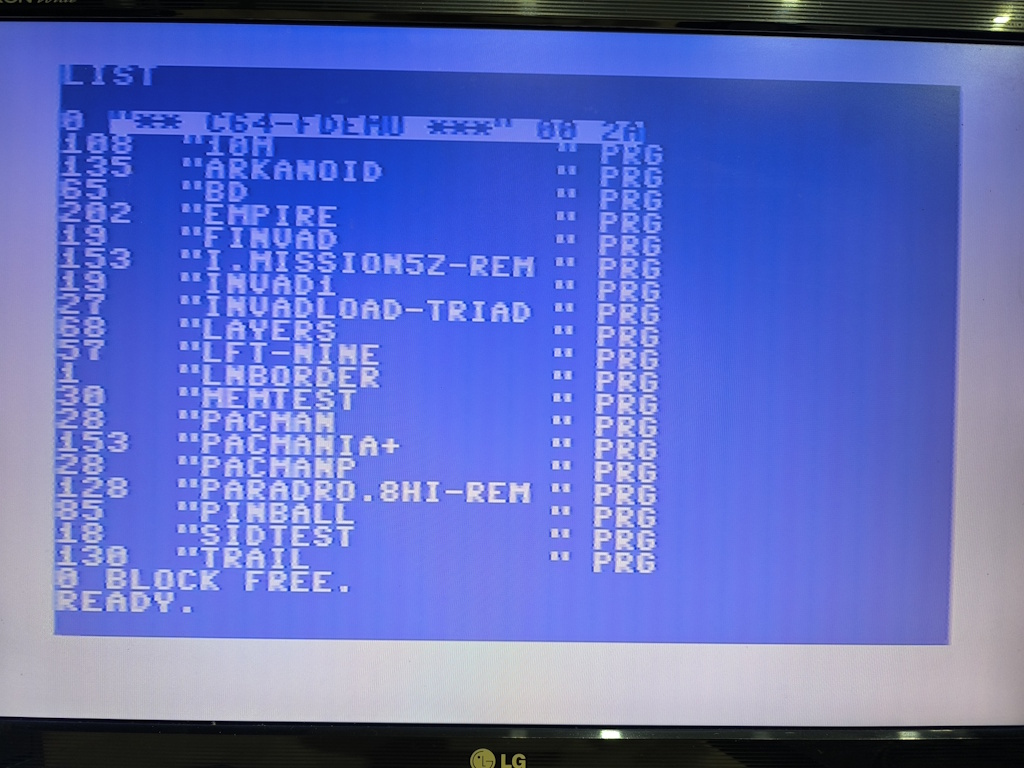
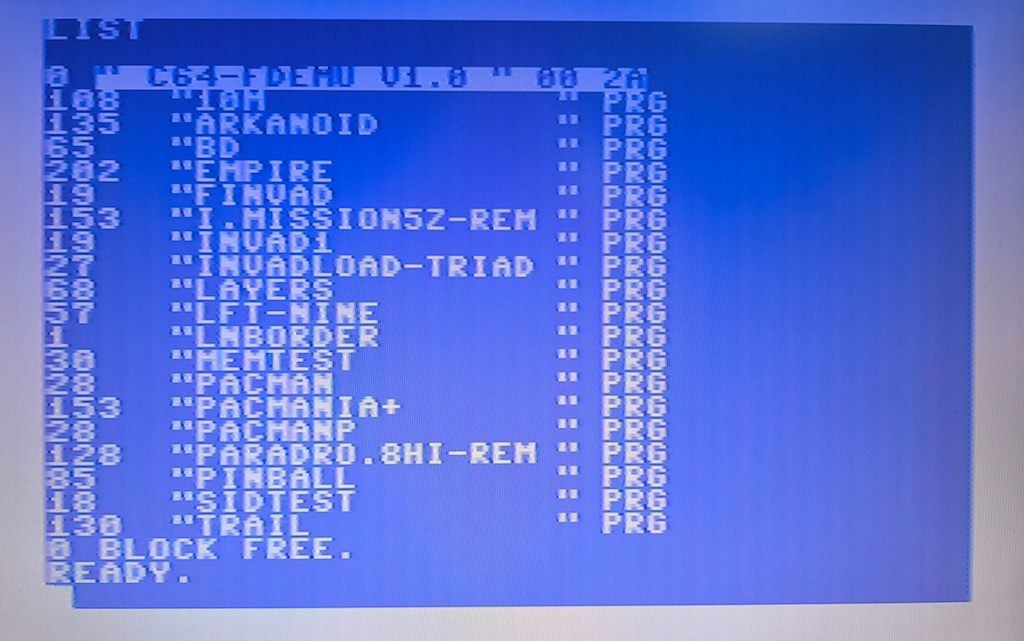
Changes related to V1.0 finalization
- Default device ID set to 8
- Renaming refactors in PowerShell scripts according to PS Verb-Noun naming convention violations
- Code optimizations in the server scripts.
- Versioning added

diff --git a/src/fileserver/c64iec_fs.py b/src/fileserver/c64iec_fs.py
@@ -6,8 +6,8 @@
 # Requirements:
 #   pip install pyserial
 # Usage:
-#   python c64iec_fs.py [--port COM5] [--baud 115200] [--basedir C:\]
-#   python c64iec_fs.py --port /dev/ttyUSB0 --baud 115200 --basedir /home/user/c64files
+#   python c64iec_fs.py [--port COM5] [--baud 115200] [--basedir C:\] --devid -1
+#   python c64iec_fs.py --port /dev/ttyUSB0 --baud 115200 --basedir /home/user/c64files --devid -1
 # -----------------------------------------------------------------------------
 # This program is free software; you can redistribute it and/or modify
 # it under the terms of the GNU General Public License as published by
@@ -38,8 +38,14 @@ except ImportError:
     print("ERROR: pyserial is not installed. Run: pip install pyserial")
     sys.exit(1)
 
+VERSION = "1.0"
+
 CHUNK_SIZE      = 256
 RECONNECT_DELAY = 3   # seconds between reconnect attempts
+
+DIR_LIST_HEADER = f"\x00\x00\x12\" C64-FDEMU V{VERSION} \" 00 2A\x00".encode('ascii')
+DIR_LIST_FOOTER = b"\x00\x00BLOCK FREE.                \x00\x00\x00"
+DIR_LIST_SPC27  = b" " * 27
 
 _stop_event = threading.Event()   # set on Ctrl+C to exit all loops
 
@@ -129,8 +135,7 @@ def build_directory_listing(base_dir: str) -> bytes:
     buf[3] = (next_addr >> 8) & 0xFF
 
     # Line content (line number = 0, reverse-video quote, disk name, id)
-    header_content = b"\x00\x00\x12\"** C64-FDEMU ***\" 00 2A\x00"
-    buf[4:4 + len(header_content)] = header_content
+    buf[4:4 + len(DIR_LIST_HEADER)] = DIR_LIST_HEADER
 
     offset = LINE_SIZE
 
@@ -144,8 +149,7 @@ def build_directory_listing(base_dir: str) -> bytes:
         buf[offset + 3] = (blocks >> 8) & 0xFF
 
         # Fill content area with spaces
-        for i in range(27):
-            buf[offset + 4 + i] = 0x20
+        buf[offset + 4 : offset + 4 + len(DIR_LIST_SPC27)] = DIR_LIST_SPC27
 
         name = os.path.splitext(f.name)[0].upper()
         # Keep only printable ASCII
@@ -181,12 +185,10 @@ def build_directory_listing(base_dir: str) -> bytes:
     # Exactly 30 bytes: line-number (2) + text (27) + null terminator (1).
     # The two 0x00 bytes that follow (the buffer's trailing "+2") are already
     # zero and serve as the end-of-BASIC program marker.
-    footer_content = b"\x00\x00BLOCK FREE.                \x00\x00\x00"
     next_off = LOAD_ADDRESS + offset + LINE_SIZE
     buf[offset + 0] = next_off & 0xFF
     buf[offset + 1] = (next_off >> 8) & 0xFF
-    buf[offset + 2 : offset + 2 + len(footer_content)] = footer_content
-
+    buf[offset + 2 : offset + 2 + len(DIR_LIST_FOOTER)] = DIR_LIST_FOOTER
     return bytes(buf)
 
 
@@ -502,7 +504,7 @@ def main() -> None:
 
     base_dir = os.path.realpath(args.basedir)
 
-    print("=== C64 IEC File Server ===")
+    print(f"=== C64 IEC File Server - Version {VERSION} ===")
     print(f"Port     : {args.port} @ {args.baud} 8-N-1")
     print(f"BaseDir  : {base_dir}")
     print(f"Device ID: {args.devid if args.devid >= 0 and args.devid <= 15 else 'adapter default'}")

diff --git a/src/iec2usb/include/IECSerialAdapterConfig.h b/src/iec2usb/include/IECSerialAdapterConfig.h
@@ -39,6 +39,9 @@
 #define ADAPTER_PIN_DATA_IN      4
 #define ADAPTER_PIN_RESET        7
 
+// These pins are only used if IEC_USE_LINE_DRIVERS is enabled in IECConfig.h.
+// They are the output pins for the CLK and DATA signals that go to the line drivers.
+// If you are using direct wiring without line drivers, these pins are not used and can be ignored.
 #define ADAPTER_PIN_CLK_OUT      5
 #define ADAPTER_PIN_DATA_OUT     6
 
@@ -47,7 +50,7 @@
 // disk drive, 9 for the second, and so on. You can choose any ID from 1 to 15,
 // but make sure it doesn't conflict with other devices on your bus (e.g. if you
 // have a real disk drive at ID 8, use a different ID for this device).
-#define IEC_DEVICE_ID            9
+#define IEC_DEVICE_ID            8
 
 // Size of the buffer used for each read/write operation. Larger sizes may
 // improve performance but require more memory on the microcontroller. The IEC

diff --git a/src/iec2usb/src/main.cpp b/src/iec2usb/src/main.cpp
@@ -45,7 +45,7 @@ void setup()
   Serial.setTimeout(5000);
 
   // Handshake
-  Serial.println("<<< IEC Serial Adapter Started >>>");
+  Serial.println("<<< IEC Serial Adapter v1.0 Started >>>");
   String config = Serial.readStringUntil('\n');
 
   // The PC can specify the device number to use by sending a configuration string like "D:8" (for device number 8).

diff --git a/README.md b/README.md
@@ -15,19 +15,19 @@ The idea is to connect the C64 to the PC via its IEC serial port, using the Ardu
 
 ### Examples
 ```
-LOAD"$",9
-LOAD"$:0",9
-LOAD"$:1",9
-LOAD"*",9,1
+LOAD"$",8
+LOAD"$:0",8
+LOAD"$:1",8
+LOAD"*",8,1
 LOAD"PACMAN",8,1
-SAVE"MYPRG",9
+SAVE"MYPRG",8
 ```
 
 ### Limitations
 - Maximum 144 .prg files are supported in a directory.
 - Multi-load is not supported.
 - Fast loading is not supported.
-- CBM DOS wildcards are not fully supported.
+- CBM DOS wildcards are not supported.
 - The maximum file name length is 16. Longer file names are automatically truncated by the server.
 - The server handles only .prg files. Disk image formats such as .d64 are not supported. You must use an external tool (e.g. DirMaster) to extract .prg files from disk images.
 - Keep in mind that the Commodore 64 LIST command can display only the last 22 PRG files on the screen, even if the LOAD"$" command returns more entries.
@@ -49,14 +49,14 @@ The Arduino Uno must be connected to the Commodore 64 IEC bus connector using a 
 
 ### Configuration
 
-All configuration settings can be found in the following source files:
+All configuration settings can be found in the following two source files:
 - /lib/IECDevice-main/IECConfig.h
 - /include/IECSerialAdapterConfig.h
 
 | Constant | Default value | Description |
 |---|---|---|
 | IEC_USE_LINE_DRIVERS | defined | Comment out this line if you are using the direct wiring scheme. |
-| IEC_DEVICE_ID | 9 | The default Device ID used by the C64 to access this device. The default device ID of the 1541 floppy disk drive is 8. The file server can override this number. |
+| IEC_DEVICE_ID | 8 | The default Device ID used by the C64 to access this device. The default device ID of the 1541 floppy disk drive is 8. This number can also be overriden by the file server. |
 | SERIAL_BAUD_RATE | 115200 | Baud rate of the UART connection between the Arduino and the PC. |
 | CHUNK_SIZE | 128 | Maximum communication buffer size between the adapter and the PC. The default value is optimized for the Arduino Uno. Larger values may slow down the Arduino. |
 | ADAPTER_PIN_ATN | 2 | Arduino pin number connected to the ATN bus line. |
@@ -112,9 +112,9 @@ Set-ExecutionPolicy -Scope CurrentUser -ExecutionPolicy RemoteSigned
 .\c64iec_fs.ps1 -PortName COM5 -BaseDir "D:\c64_files"
 ```
 
-If you want to use a device ID other than the default one used by FDEMU, run the script with the **DeviceID** parameter:
+If you want to use a device ID other than the default one used by FDEMU, run the script with the **DevID** parameter:
 ```
-.\c64iec_fs.ps1 -PortName COM5 -BaseDir "D:\c64_files" -DeviceID 8
+.\c64iec_fs.ps1 -PortName COM5 -BaseDir "D:\c64_files" -DevID 9
 ```
 
 ### Python
@@ -145,7 +145,7 @@ python c64iec_fs.py --port /dev/ttyUSB0 --basedir /home/user/c64_files
 
 If you want to use a device ID other than the default one used by FDEMU, run the script with the **devid** parameter:
 ```
-python c64iec_fs.py --port /dev/ttyUSB0 --basedir /home/user/c64_files --devid 8
+python c64iec_fs.py --port /dev/ttyUSB0 --basedir /home/user/c64_files --devid 9
 ```
 
 